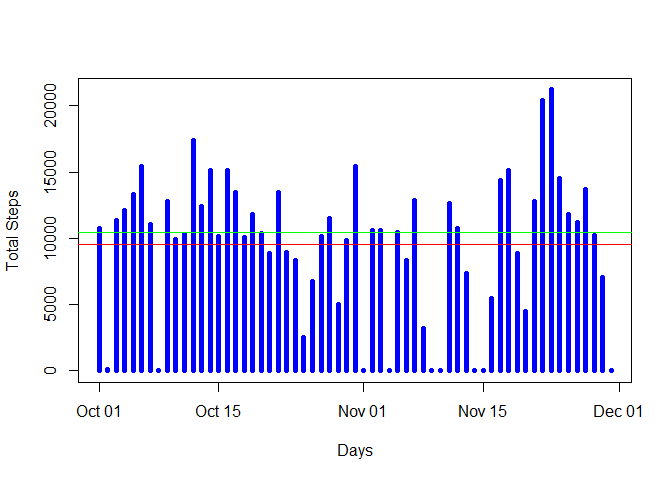
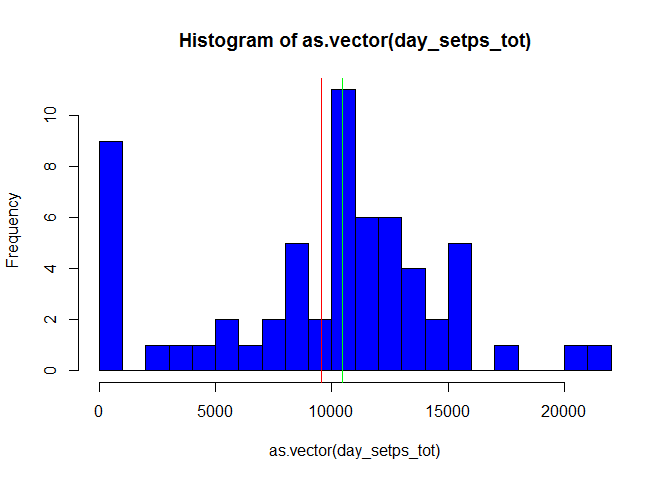
Commit2

diff --git a/PA1_template.html b/PA1_template.html
@@ -143,10 +143,10 @@ raw_data &lt;- read.csv(&quot;activity.csv&quot;)</code></pre>
 <pre><code>## The following object is masked from 'package:base':
 ## 
 ##     date</code></pre>
-<pre class="r"><code>plot(ymd(names(day_setps_tot)),as.vector(day_setps_tot),type = &quot;h&quot;,lwd =5,col = &quot;blue&quot;,xlab = &quot;Days&quot;,ylab = &quot;Total Steps&quot;)
-abline(h= mean(day_setps_tot),col = &quot;red&quot;)
-abline(h= median(day_setps_tot),col = &quot;green&quot;)</code></pre>
[1 lines of base64/hex data omitted]
+<pre class="r"><code>hist(as.vector(day_setps_tot),breaks = 30,col = &quot;blue&quot;)
+abline(v= mean(day_setps_tot),col = &quot;red&quot;)
+abline(v= median(day_setps_tot),col = &quot;green&quot;)</code></pre>
[1 lines of base64/hex data omitted]
 <ol style="list-style-type: decimal">
 <li>Red line is the mean</li>
 <li>Green line is the median</li>
@@ -179,11 +179,11 @@ raw_data_cleaned[missig_data,&quot;steps&quot;] &lt;- 0</code></pre>
 <p>Ploatting a histogram</p>
 <pre class="r"><code>day_setps_tot &lt;- tapply(raw_data_cleaned$steps,raw_data_cleaned$date,sum)
 
-plot(ymd(names(day_setps_tot)),as.vector(day_setps_tot),type = &quot;h&quot;,lwd =5,col = &quot;blue&quot;,xlab = &quot;Days&quot;,ylab = &quot;Total Steps&quot;)
 
-abline(h= mean(day_setps_tot),col = &quot;red&quot;)
-abline(h= median(day_setps_tot),col = &quot;green&quot;)</code></pre>
[1 lines of base64/hex data omitted]
+hist(as.vector(day_setps_tot),breaks = 30,col = &quot;blue&quot;)
+abline(v= mean(day_setps_tot),col = &quot;red&quot;)
+abline(v= median(day_setps_tot),col = &quot;green&quot;)</code></pre>
[1 lines of base64/hex data omitted]
 </div>
 <div id="are-there-differences-in-activity-patterns-between-weekdays-and-weekends" class="section level2">
 <h2>Are there differences in activity patterns between weekdays and weekends?</h2>

diff --git a/PA1_template.md b/PA1_template.md
@@ -61,9 +61,9 @@ library(lubridate)
 ```
 
 ```r
-plot(ymd(names(day_setps_tot)),as.vector(day_setps_tot),type = "h",lwd =5,col = "blue",xlab = "Days",ylab = "Total Steps")
-abline(h= mean(day_setps_tot),col = "red")
-abline(h= median(day_setps_tot),col = "green")
+hist(as.vector(day_setps_tot),breaks = 30,col = "blue")
+abline(v= mean(day_setps_tot),col = "red")
+abline(v= median(day_setps_tot),col = "green")
 ```
 
 ![](PA1_template_files/figure-html/unnamed-chunk-5-1.png)<!-- -->
@@ -122,10 +122,10 @@ Ploatting a histogram
 ```r
 day_setps_tot <- tapply(raw_data_cleaned$steps,raw_data_cleaned$date,sum)
 
-plot(ymd(names(day_setps_tot)),as.vector(day_setps_tot),type = "h",lwd =5,col = "blue",xlab = "Days",ylab = "Total Steps")
 
-abline(h= mean(day_setps_tot),col = "red")
-abline(h= median(day_setps_tot),col = "green")
+hist(as.vector(day_setps_tot),breaks = 30,col = "blue")
+abline(v= mean(day_setps_tot),col = "red")
+abline(v= median(day_setps_tot),col = "green")
 ```
 
 ![](PA1_template_files/figure-html/unnamed-chunk-10-1.png)<!-- -->
